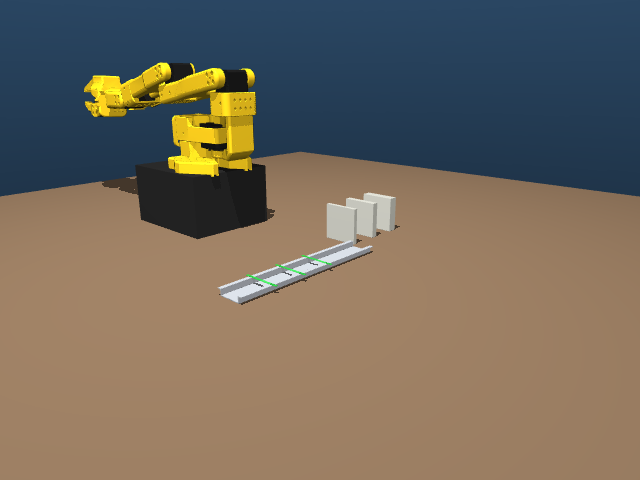
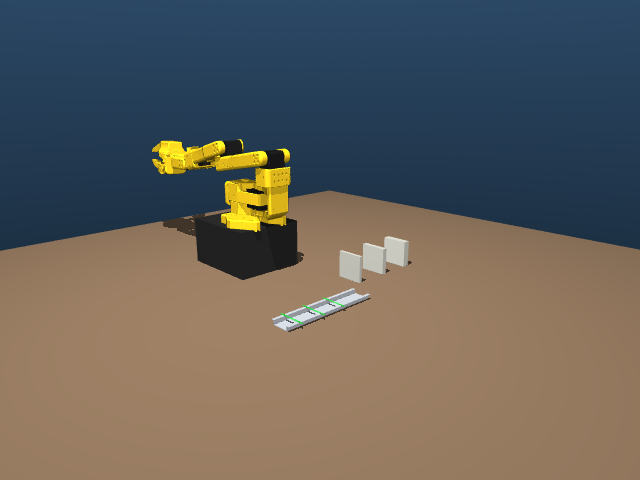
Scripted pick-and-place: 60/60 in sim across 3 block widths; Phase 2 done

Changed region(s): [[0.0, 0.125, 1.0, 0.6875]]

diff --git a/sim/so101_sim/pick_place.py b/sim/so101_sim/pick_place.py
@@ -1,0 +1,192 @@
+"""Scripted (classic) pick-and-place of terminal blocks onto the DIN rail.
+
+Pipeline per block:  ready -> above block -> straight down -> close -> straight up
+                     -> carry at safe height -> above slot -> straight down -> open -> straight up
+Every Cartesian segment is a straight TCP line, turned into joint angles with our own IK.
+The block poses come from the simulator here; in Phase 4 they will come from the camera.
+"""
+from dataclasses import dataclass, field
+
+import mujoco
+import numpy as np
+
+from so101_sim.ik import solve_ik, top_down_pose
+from so101_sim.kinematics import ARM_JOINTS, TCP_SITE
+from so101_sim.scene import (BLOCK_HEIGHT, RAIL_TOP_Z, TABLE_Z, BlockSpec, body_pose, is_placed,
+                             scene_kinematics, slot_pose, wrap_angle)
+
+# ---- Gripper (measured in the model, see step 2.4) ----
+# Jaw-tip gap [mm] measured at several gripper angles [deg]; interpolate between them.
+_GAP_TABLE_DEG = np.array([-9.7, -1.3, 7.1, 15.5, 23.9, 32.4])
+_GAP_TABLE_MM = np.array([1.8, 13.0, 24.1, 35.0, 45.2, 54.3])
+GRIPPER_CLOSED = np.radians(-10.0) # fully closed: the servo squeezes until its torque limit
+GRIPPER_PARKED = np.radians(20.0)  # ~40 mm, used while moving without a block
+PRESHAPE_MARGIN = 0.010            # m: open only to block width + this before grasping/releasing
+FIXED_JAW_INNER = 0.021            # m: inner face of the fixed jaw, -z_tcp from the TCP (measured in sim)
+JAW_CLEARANCE = 0.004              # m: gap between fixed jaw and block while descending
+RELEASE_BACKOFF = 0.002            # m: move the fixed jaw off the block before lifting
+
+
+def gripper_angle_for_gap(gap: float) -> float:
+    """Gripper joint angle [rad] that gives a jaw-tip gap of `gap` metres (table lookup)."""
+    return np.radians(np.interp(gap * 1000, _GAP_TABLE_MM, _GAP_TABLE_DEG))
+
+# ---- Motion parameters ----
+GRASP_DEPTH = 0.012                # TCP this far below the block's top face when grasping
+APPROACH_HEIGHT = 0.06             # straight-line approach / retreat distance
+CARRY_Z = TABLE_Z + 0.10           # safe transport height of the TCP
+CART_SPEED = 0.10                  # m/s along straight TCP lines
+WAYPOINT_STEP = 0.005              # m between IK waypoints on a straight line
+
+
+@dataclass
+class SimRobot:
+    """Thin wrapper that drives the simulated SO-101 through its position servos."""
+    model: mujoco.MjModel
+    data: mujoco.MjData
+    on_step: callable = None                      # optional hook (viewer sync, video recording)
+    kin: object = field(default_factory=scene_kinematics)
+
+    def __post_init__(self):
+        m = self.model
+        self.qadr = [m.joint(j).qposadr[0] for j in ARM_JOINTS]
+        self.act = [m.actuator(j).id for j in ARM_JOINTS]
+        self.grip_act = m.actuator("gripper").id
+        self.tcp_site = m.site(TCP_SITE).id
+        self.q_cmd = self.data.ctrl[self.act].copy()
+
+    # -- low level --
+    def step(self, n: int = 1):
+        for _ in range(n):
+            mujoco.mj_step(self.model, self.data)
+            if self.on_step is not None:
+                self.on_step(self.model, self.data)
+
+    def wait(self, seconds: float):
+        self.step(int(seconds / self.model.opt.timestep))
+
+    def tcp_pose_cmd(self) -> np.ndarray:
+        """TCP pose of the *commanded* joints (what the planner believes)."""
+        return self.kin.forward_kinematics(self.q_cmd)
+
+    # -- motions --
+    def follow_joint_path(self, path: list, duration: float):
+        """Track a list of joint vectors with a smooth (zero start/end velocity) time law."""
+        path = [self.q_cmd.copy()] + list(path)
+        n_steps = max(1, int(duration / self.model.opt.timestep))
+        for k in range(1, n_steps + 1):
+            s = k / n_steps
+            s = 3 * s**2 - 2 * s**3                   # smoothstep
+            x = s * (len(path) - 1)
+            i = min(int(x), len(path) - 2)
+            q = path[i] + (x - i) * (path[i + 1] - path[i])
+            self.data.ctrl[self.act] = q
+            self.step()
+        self.q_cmd = path[-1].copy()
+
+    def move_line(self, T_goal: np.ndarray, speed: float = CART_SPEED) -> bool:
+        """Straight-line TCP motion (position + yaw) solved with IK at closely spaced waypoints."""
+        T_start = self.tcp_pose_cmd()
+        p0, p1 = T_start[:3, 3], T_goal[:3, 3]
+        yaw0 = np.arctan2(-T_start[0, 1], T_start[1, 1])   # recover yaw from the TCP y-axis
+        yaw1 = np.arctan2(-T_goal[0, 1], T_goal[1, 1])
+        dyaw = wrap_angle(yaw1 - yaw0)
+        dist = np.linalg.norm(p1 - p0)
+        n = max(2, int(np.ceil(max(dist / WAYPOINT_STEP, abs(dyaw) / 0.05))))
+        path, q = [], self.q_cmd.copy()
+        for s in np.linspace(0, 1, n + 1)[1:]:
+            res = solve_ik(self.kin, top_down_pose(p0 + s * (p1 - p0), yaw0 + s * dyaw), q0=q,
+                           restarts=0)
+            if not res.success:
+                return False
+            q = res.q
+            path.append(q)
+        duration = max(dist / speed, abs(dyaw) / 1.0, 0.3)
+        self.follow_joint_path(path, duration)
+        return True
+
+    def move_gripper(self, angle: float, duration: float = 0.6):
+        start = self.data.ctrl[self.grip_act]
+        n = int(duration / self.model.opt.timestep)
+        for k in range(1, n + 1):
+            self.data.ctrl[self.grip_act] = start + (angle - start) * k / n
+            self.step()
+
+
+def grasp_yaw(block_yaw: float, current_yaw: float) -> float:
+    """Jaws must close along the block's width (its local y); pick the equivalent yaw
+    (two choices, 180 deg apart) that needs the least wrist rotation."""
+    candidates = [wrap_angle(block_yaw + np.pi / 2), wrap_angle(block_yaw - np.pi / 2)]
+    return min(candidates, key=lambda y: abs(wrap_angle(y - current_yaw)))
+
+
+def tcp_for_block_center(center: np.ndarray, yaw: float, width: float, clearance: float) -> np.ndarray:
+    """TCP pose that puts the block centre between the jaws, against the fixed jaw.
+
+    The fixed jaw's inner face is FIXED_JAW_INNER along -z_tcp from the TCP. The block face on
+    that side must be `clearance` short of it, so the block centre sits at
+    (FIXED_JAW_INNER - width/2 - clearance) along -z_tcp, i.e. TCP = centre + that * z_tcp.
+    """
+    T = top_down_pose(center, yaw)
+    z_tcp = T[:3, 2]
+    T[:3, 3] = center + (FIXED_JAW_INNER - width / 2 - clearance) * z_tcp
+    return T
+
+
+def pick_and_place(robot: SimRobot, block: BlockSpec, slot: str) -> tuple[bool, str]:
+    """Run one pick-and-place. Returns (success, message)."""
+    m, d = robot.model, robot.data
+    T_block = body_pose(m, d, block.name)               # Phase 4: comes from the camera instead
+    block_yaw = np.arctan2(T_block[1, 0], T_block[0, 0])
+    cur_yaw = np.arctan2(-robot.tcp_pose_cmd()[0, 1], robot.tcp_pose_cmd()[1, 1])
+    yaw = grasp_yaw(block_yaw, cur_yaw)
+
+    # ---- pick ----
+    center = T_block[:3, 3].copy()
+    center[2] = TABLE_Z + BLOCK_HEIGHT - GRASP_DEPTH     # grasp height = top face - GRASP_DEPTH
+    T_grasp = tcp_for_block_center(center, yaw, block.width, JAW_CLEARANCE)
+    T_above = T_grasp.copy()
+    T_above[2, 3] = CARRY_Z
+
+    # Pre-shape: open only a little wider than the block, so the swinging jaw
+    # cannot hit neighbouring blocks (we know the width from the block type).
+    preshape = gripper_angle_for_gap(block.width + PRESHAPE_MARGIN)
+    if not robot.move_line(T_above):
+        return False, "cannot reach above block"
+    robot.move_gripper(preshape, 0.4)
+    if not robot.move_line(T_grasp, speed=0.05):
+        return False, "cannot reach grasp pose"
+    robot.move_gripper(GRIPPER_CLOSED, 0.6)
+    robot.wait(0.3)
+    T_lift = T_grasp.copy()
+    T_lift[2, 3] = CARRY_Z
+    if not robot.move_line(T_lift, speed=0.05):
+        return False, "cannot lift"
+
+    # ---- place ----
+    T_slot = slot_pose(m, d, slot)
+    slot_yaw = np.arctan2(T_slot[1, 0], T_slot[0, 0])
+    yaw_place = grasp_yaw(slot_yaw, yaw)
+    center = T_slot[:3, 3].copy()
+    center[2] = RAIL_TOP_Z + BLOCK_HEIGHT - GRASP_DEPTH + 0.001   # release 1 mm above the rail
+    T_place = tcp_for_block_center(center, yaw_place, block.width, 0.0)  # block now touches fixed jaw
+    T_above_slot = T_place.copy()
+    T_above_slot[2, 3] = CARRY_Z
+    if not robot.move_line(T_above_slot):
+        return False, "cannot reach above slot"
+    if not robot.move_line(T_place, speed=0.05):
+        return False, "cannot reach place pose"
+    # Release: open a little, slide the fixed jaw off the block face, then lift straight up.
+    robot.move_gripper(preshape, 0.8)
+    robot.wait(0.2)
+    T_backoff = robot.tcp_pose_cmd()
+    T_backoff[:3, 3] -= RELEASE_BACKOFF * T_backoff[:3, 2]
+    robot.move_line(T_backoff, speed=0.01)
+    T_retreat = T_backoff.copy()
+    T_retreat[2, 3] = CARRY_Z
+    robot.move_line(T_retreat, speed=0.03)
+    robot.move_gripper(GRIPPER_PARKED, 0.3)
+    robot.wait(0.5)
+
+    ok = is_placed(m, d, block.name, slot)
+    return ok, "placed" if ok else "block not within tolerance"

diff --git a/sim/scripts/run_pick_place.py b/sim/scripts/run_pick_place.py
@@ -1,0 +1,112 @@
+"""Run the scripted (classic) pick-and-place for N randomised episodes and record the results.
+
+  python sim/scripts/run_pick_place.py --viewer                 # watch one episode
+  python sim/scripts/run_pick_place.py --episodes 20            # success rate, writes a CSV
+  python sim/scripts/run_pick_place.py --episodes 1 --gif media/sim_pick_place.gif
+"""
+import argparse
+import csv
+import time
+from pathlib import Path
+
+import mujoco
+import mujoco.viewer
+import numpy as np
+
+from so101_sim.pick_place import SimRobot, pick_and_place
+from so101_sim.scene import BLOCKS, SLOT_SITES, load_scene, placement_error, reset
+
+ROOT = Path(__file__).resolve().parents[2]
+
+
+class GifRecorder:
+    """Grabs frames from a scene camera every `1/fps` simulated seconds."""
+
+    def __init__(self, model, camera="front", fps=12, size=(320, 240)):
+        self.renderer = mujoco.Renderer(model, height=size[1], width=size[0])
+        self.camera, self.period, self.next_t, self.frames = camera, 1.0 / fps, 0.0, []
+
+    def __call__(self, model, data):
+        if data.time >= self.next_t:
+            self.renderer.update_scene(data, camera=self.camera)
+            self.frames.append(self.renderer.render().copy())
+            self.next_t += self.period
+
+    def save(self, path: Path, speedup: float = 2.0):
+        from PIL import Image
+        path.parent.mkdir(parents=True, exist_ok=True)
+        imgs = [Image.fromarray(f) for f in self.frames]
+        imgs[0].save(path, save_all=True, append_images=imgs[1:], loop=0,
+                     duration=int(1000 * self.period / speedup))
+        print(f"saved {path} ({len(imgs)} frames, {speedup:g}x speed)")
+
+
+def main(args):
+    rows, n_ok = [], 0
+    viewer = None
+    for ep in range(args.episodes):
+        model, data = load_scene()
+        rng = np.random.default_rng(args.seed + ep)
+        reset(model, data, rng=rng, xy_jitter=args.xy_jitter, yaw_jitter_deg=args.yaw_jitter)
+
+        hooks = []
+        recorder = GifRecorder(model) if args.gif and ep == 0 else None
+        if recorder:
+            hooks.append(recorder)
+        if args.viewer:
+            viewer = mujoco.viewer.launch_passive(model, data)
+
+            def sync(m, d, v=viewer):
+                v.sync()
+                time.sleep(m.opt.timestep / args.speed)
+            hooks.append(sync)
+
+        robot = SimRobot(model, data, on_step=lambda m, d: [h(m, d) for h in hooks])
+        for block, slot in zip(BLOCKS, SLOT_SITES):
+            ok, msg = pick_and_place(robot, block, slot)
+            e = placement_error(model, data, block.name, slot)
+            n_ok += ok
+            rows.append({"episode": ep, "block": block.name, "width_mm": block.width * 1000,
+                         "slot": slot, "success": int(ok), "message": msg,
+                         "err_across_mm": round(e["across"] * 1000, 2),
+                         "err_along_mm": round(e["along"] * 1000, 2),
+                         "err_yaw_deg": round(float(np.degrees(e["yaw"])), 2)})
+            print(f"episode {ep:3d}  {block.name:<10} -> {slot}: {'OK  ' if ok else 'FAIL'} {msg:<28}"
+                  f" along {e['along'] * 1000:+5.1f} mm  across {e['across'] * 1000:+5.1f} mm")
+        if recorder:
+            recorder.save(ROOT / args.gif)
+        if viewer is not None:
+            # Let the user close the window: shutting the viewer down from code while its
+            # render thread is still running can crash (segfault) on Linux/WSL.
+            print("Close the viewer window to continue.")
+            while viewer.is_running():
+                time.sleep(0.05)
+            viewer = None
+
+    total = len(rows)
+    print(f"\nSuccess: {n_ok}/{total} = {100 * n_ok / total:.1f} %")
+    for b in BLOCKS:
+        r = [x for x in rows if x["block"] == b.name]
+        ok = sum(x["success"] for x in r)
+        print(f"  {b.name:<10} ({b.width * 1000:4.1f} mm): {ok}/{len(r)}")
+    if args.csv:
+        out = ROOT / args.csv
+        out.parent.mkdir(parents=True, exist_ok=True)
+        with open(out, "w", newline="") as f:
+            w = csv.DictWriter(f, fieldnames=rows[0].keys())
+            w.writeheader()
+            w.writerows(rows)
+        print(f"wrote {out}")
+
+
+if __name__ == "__main__":
+    p = argparse.ArgumentParser()
+    p.add_argument("--episodes", type=int, default=1)
+    p.add_argument("--seed", type=int, default=0)
+    p.add_argument("--xy-jitter", type=float, default=0.01, help="m, random block offset in supply area")
+    p.add_argument("--yaw-jitter", type=float, default=10.0, help="deg, random block rotation")
+    p.add_argument("--viewer", action="store_true")
+    p.add_argument("--speed", type=float, default=1.0, help="viewer playback speed")
+    p.add_argument("--gif", type=str, default=None, help="record episode 0 to this GIF (repo-relative)")
+    p.add_argument("--csv", type=str, default="experiments/sim_classic_pick_place.csv")
+    main(p.parse_args())

diff --git a/sim/tests/test_pick_place.py b/sim/tests/test_pick_place.py
@@ -1,0 +1,34 @@
+import numpy as np
+
+from so101_sim.pick_place import SimRobot, gripper_angle_for_gap, pick_and_place
+from so101_sim.scene import BLOCKS, SLOT_SITES, is_placed, load_scene, reset
+
+
+def test_gripper_gap_lookup_is_monotonic():
+    gaps = np.linspace(0.005, 0.05, 20)
+    angles = [gripper_angle_for_gap(g) for g in gaps]
+    assert np.all(np.diff(angles) > 0)
+
+
+def run_episode(seed):
+    model, data = load_scene()
+    reset(model, data, rng=None if seed is None else np.random.default_rng(seed))
+    robot = SimRobot(model, data)
+    results = [pick_and_place(robot, b, s)[0] for b, s in zip(BLOCKS, SLOT_SITES)]
+    # every block must still be in its slot at the end (later moves must not disturb earlier ones)
+    final = [is_placed(model, data, b.name, s) for b, s in zip(BLOCKS, SLOT_SITES)]
+    return results, final
+
+
+def test_nominal_episode_places_all_three_blocks():
+    results, final = run_episode(None)
+    assert all(results) and all(final)
+
+
+def test_randomised_episodes():
+    n_ok = n = 0
+    for seed in range(5):
+        _, final = run_episode(seed)
+        n_ok += sum(final)
+        n += len(final)
+    assert n_ok / n >= 0.9, f"only {n_ok}/{n} placed"

diff --git a/sim/so101_sim/scene.py b/sim/so101_sim/scene.py
@@ -26,10 +26,12 @@ class BlockSpec:
     supply_xy: tuple # nominal pick position on the table
 
 
+# Supply positions are 6 cm apart so the opening jaw cannot hit a neighbouring block,
+# and >= 2 cm clear of the rail end even with the +-1 cm randomisation.
 BLOCKS = (
-    BlockSpec("block_w5", 0.0052, (0.20, 0.06)),
-    BlockSpec("block_w8", 0.0082, (0.20, 0.10)),
-    BlockSpec("block_w12", 0.0122, (0.20, 0.14)),
+    BlockSpec("block_w5", 0.0052, (0.18, 0.07)),
+    BlockSpec("block_w8", 0.0082, (0.18, 0.13)),
+    BlockSpec("block_w12", 0.0122, (0.18, 0.19)),
 )
 SLOT_SITES = ("slot_0", "slot_1", "slot_2")
 

diff --git a/README.md b/README.md
@@ -5,9 +5,16 @@ SO-101 6-DoF arm: classic pipeline (calibrated camera + own IK) vs. imitation le
 
 ## Status
 - [x] Phase 1: Setup (WSL2, ROS 2 Jazzy, MuJoCo, LeRobot)
-- [ ] Phase 2: Simulation (own FK / Jacobian IK, scripted pick-and-place)
+- [x] Phase 2: Simulation (own FK / Jacobian IK, scripted pick-and-place)
 - [ ] Phase 3: ROS 2 (URDF/RViz, ros2_control, C++ safety monitor)
 - [ ] Phase 4: Perception (camera + hand-eye calibration, detection, 3D pick poses)
 - [ ] Phase 5: Hardware (real SO-101, classic pipeline, 20 trials)
 - [ ] Phase 6: Imitation learning (ACT, 20 trials, comparison across 3 widths)
 - [ ] Phase 7: Write-up, results, video
+
+## Simulation result (Phase 2)
+![Scripted pick-and-place in MuJoCo](media/sim_pick_place.gif)
+
+Classic pipeline (own FK + damped-least-squares IK, Cartesian straight-line motions),
+block poses from the simulator, ±1 cm / ±10° randomised supply positions:
+**60/60 blocks seated** (20 episodes × 3 widths: 5.2 / 8.2 / 12.2 mm).
